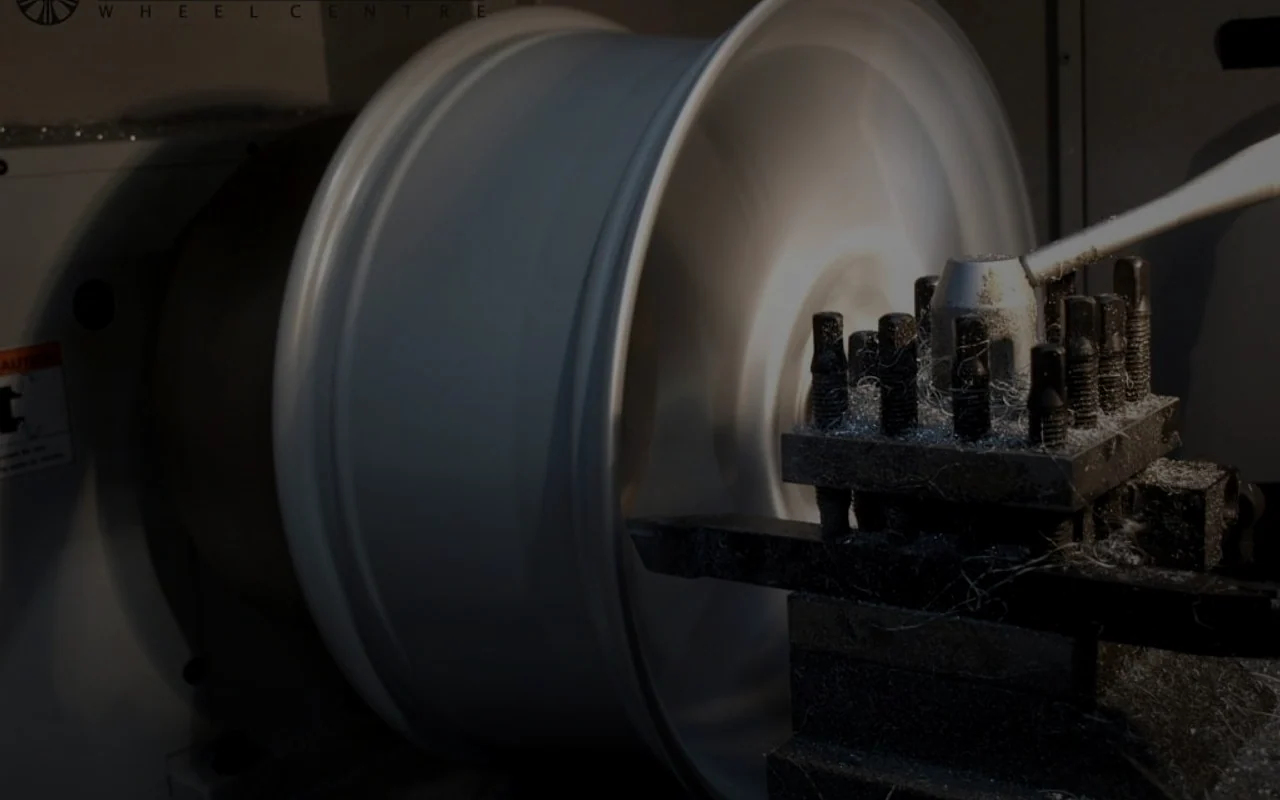
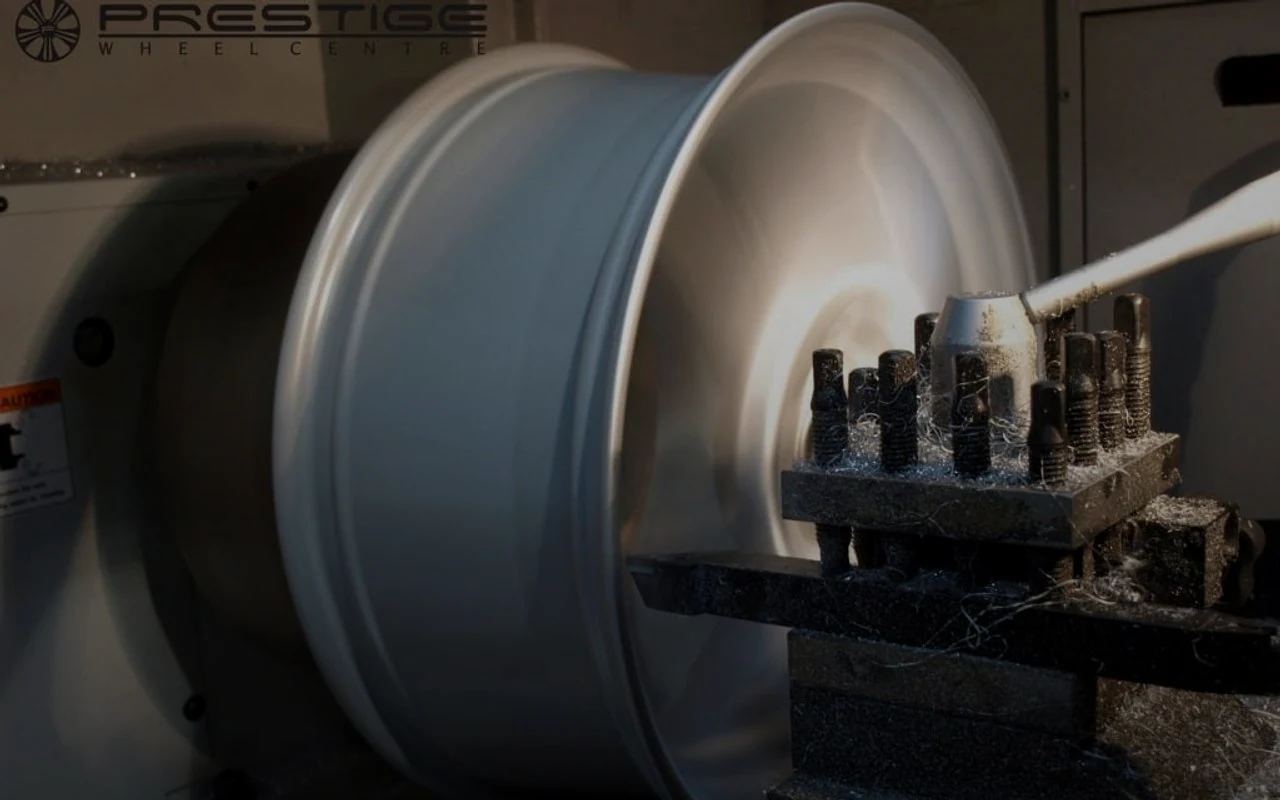
hizmetgüncelleme

diff --git a/scripts/download-wheel-service-heroes.js b/scripts/download-wheel-service-heroes.js
@@ -10,87 +10,132 @@ const UA =
 const WIDTH = 1280;
 const HEIGHT = 800;
 
-/** Janta yakın çekim, başlığa uygun gerçek onarım süreci görselleri */
 const SERVICES = [
   {
     id: "jant-boyama",
     title: "Jant Boyama",
-    url: "https://commons.wikimedia.org/wiki/Special:FilePath/Rims_painted_(2967657525).jpg",
-    focus: "centre",
-    note: "Jant sprey boya uygulaması (yakın çekim)",
+    url: "https://plus.unsplash.com/premium_photo-1661750334379-2f2b4b1f6ef4?fm=jpg&q=85&w=1920",
+    focus: [0.5, 0.45],
+    note: "Sprey boya kabininde otomotiv parça boyama (Unsplash)",
   },
   {
     id: "jant-kaynagi",
     title: "Jant Kaynağı",
-    url: "https://blogger.googleusercontent.com/img/b/R29vZ2xl/AVvXsEhkehMhoz4edcjV-H_lPAppPhSNVlQHxgdIdTcx8eUMsGmAlaepoDvV8qBQRfxPh3qQJ_SiA_sWDENb0C-ly_KXATdrApqKAq69SxlCFaUnKOzipTPCVMW7M4stPOiCgc93mtgDib-n-K6-/s1600/1471.JPG",
-    focus: "centre",
-    note: "Jant kenarı TIG kaynak onarımı",
+    url: "https://commons.wikimedia.org/wiki/Special:FilePath/TIG_welding.jpg",
+    focus: [0.5, 0.45],
+    note: "TIG kaynak işlemi (Wikimedia Commons)",
   },
   {
     id: "cnc-diamond-cut",
     title: "CNC Diamond Cut",
     url: "https://prestigewheelcentre.co.uk/blog/wp-content/uploads/2013/03/P3091647-1024x730.jpg",
-    focus: "centre",
+    focus: [0.52, 0.46],
     note: "CNC diamond cut tornalama — jant yüzey kesimi",
   },
   {
     id: "jant-duzeltme",
     title: "Jant Düzeltme",
     url: "https://wheelrestore.com/wp-content/uploads/2023/10/wr-install-001.webp",
-    focus: "centre",
-    note: "Jant düzeltme makinesinde onarım",
+    focus: [0.5, 0.48],
+    note: "Jant düzeltme makinesi / atölye uygulaması",
   },
   {
     id: "jant-tornalama",
     title: "Jant Tornalama",
     url: "https://prestigewheelcentre.co.uk/blog/wp-content/uploads/2013/03/P3091643-1024x986.jpg",
-    focus: "centre",
-    note: "CNC tornada jant profil tarama / tornalama",
+    focus: [0.55, 0.42],
+    note: "CNC tornada jant profil işleme",
   },
   {
     id: "jant-kumlama",
     title: "Jant Kumlama",
-    url: "https://wheelrestore.com/wp-content/uploads/2024/09/wheel-blasting-machine-filtration.webp",
-    focus: "centre",
-    note: "Kumlama kabininde jant hazırlığı",
+    url: "https://upload.wikimedia.org/wikipedia/commons/f/f2/Cabine_de_sablage_arena.JPG",
+    focus: [0.5, 0.5],
+    note: "Kumlama kabini — boya öncesi yüzey hazırlığı (Wikimedia Commons)",
   },
   {
     id: "jant-polisaj",
     title: "Jant Polisaj",
-    url: "https://prestigewheelcentre.co.uk/blog/wp-content/uploads/2013/03/P3091646-1024x807.jpg",
-    focus: "centre",
-    note: "Parlatılmış jant yüzeyi yakın çekim",
+    url: "https://upload.wikimedia.org/wikipedia/commons/f/f1/Jaguar_XF_Nevis_%2820%22%29_alloy_wheel.jpg",
+    focus: [0.42, 0.52],
+    note: "Parlatılmış premium jant yakın çekim (Wikimedia Commons)",
   },
   {
     id: "diger-hizmetler",
     title: "Diğer Hizmetler",
-    url: "https://thewheelmedics.co.uk/wp-content/uploads/2023/02/image12.jpg",
-    focus: "centre",
-    note: "Genel jant restorasyon ve onarım",
+    url: "https://images.pexels.com/photos/32208774/pexels-photo-32208774.jpeg?auto=compress&cs=tinysrgb&w=1920",
+    focus: [0.5, 0.42],
+    note: "Atölyede lastik/jant onarımı (Pexels)",
   },
 ];
+
+function sleep(ms) {
+  return new Promise(function (resolve) {
+    setTimeout(resolve, ms);
+  });
+}
 
 async function fetchBuf(url) {
   const headers = {
     "User-Agent": UA,
     Accept: "image/avif,image/webp,image/apng,image/*,*/*;q=0.8",
   };
-  if (url.includes("wheelsclinic.co.uk")) {
-    headers.Referer = "https://www.wheelsclinic.co.uk/";
+  if (url.includes("prestigewheelcentre.co.uk") || url.includes("wheelrestore.com")) {
+    headers.Referer = "https://www.google.com/";
   }
-  const res = await fetch(url, { headers, redirect: "follow" });
-  if (!res.ok) throw new Error("HTTP " + res.status);
-  const buf = Buffer.from(await res.arrayBuffer());
-  if (buf.length < 8000) throw new Error("too small (" + buf.length + " bytes)");
-  return buf;
+
+  let lastError = null;
+  for (let attempt = 0; attempt < 3; attempt += 1) {
+    try {
+      const res = await fetch(url, { headers, redirect: "follow" });
+      if (res.status === 429) {
+        await sleep(2500 * (attempt + 1));
+        throw new Error("HTTP 429");
+      }
+      if (!res.ok) throw new Error("HTTP " + res.status);
+      const buf = Buffer.from(await res.arrayBuffer());
+      if (buf.length < 8000) throw new Error("too small (" + buf.length + " bytes)");
+      return buf;
+    } catch (err) {
+      lastError = err;
+      await sleep(1500 * (attempt + 1));
+    }
+  }
+  throw lastError;
+}
+
+function coverCropRect(w, h, focus) {
+  const targetAspect = WIDTH / HEIGHT;
+  const sourceAspect = w / h;
+  let cropW;
+  let cropH;
+
+  if (sourceAspect > targetAspect) {
+    cropH = h;
+    cropW = Math.round(h * targetAspect);
+  } else {
+    cropW = w;
+    cropH = Math.round(w / targetAspect);
+  }
+
+  const fx = focus && focus[0] != null ? focus[0] : 0.5;
+  const fy = focus && focus[1] != null ? focus[1] : 0.5;
+  const left = Math.round(Math.max(0, Math.min(w - cropW, fx * w - cropW / 2)));
+  const top = Math.round(Math.max(0, Math.min(h - cropH, fy * h - cropH / 2)));
+
+  return { left, top, width: cropW, height: cropH };
 }
 
 async function normalizeHero(buf, focus) {
-  const graded = await sharp(buf)
-    .rotate()
-    .resize(WIDTH, HEIGHT, { fit: "cover", position: focus || "centre" })
-    .modulate({ brightness: 0.84, saturation: 0.72 })
-    .linear(1.06, -14)
+  const rotated = sharp(buf).rotate();
+  const meta = await rotated.metadata();
+  const crop = coverCropRect(meta.width, meta.height, focus);
+
+  const graded = await rotated
+    .extract(crop)
+    .resize(WIDTH, HEIGHT)
+    .modulate({ brightness: 0.9, saturation: 0.88 })
+    .linear(1.04, -8)
     .toBuffer();
 
   const overlay = Buffer.from(
@@ -98,14 +143,13 @@ async function normalizeHero(buf, focus) {
       <defs>
         <radialGradient id="v" cx="50%" cy="45%" r="75%">
           <stop offset="0%" stop-color="#000" stop-opacity="0"/>
-          <stop offset="100%" stop-color="#09090f" stop-opacity="0.35"/>
+          <stop offset="100%" stop-color="#09090f" stop-opacity="0.22"/>
         </radialGradient>
         <linearGradient id="b" x1="0" y1="0" x2="0" y2="1">
-          <stop offset="0%" stop-color="#14141c" stop-opacity="0.06"/>
-          <stop offset="100%" stop-color="#090909" stop-opacity="0.48"/>
+          <stop offset="0%" stop-color="#14141c" stop-opacity="0"/>
+          <stop offset="100%" stop-color="#090909" stop-opacity="0.38"/>
         </linearGradient>
       </defs>
-      <rect width="100%" height="100%" fill="#14141c" fill-opacity="0.1"/>
       <rect width="100%" height="100%" fill="url(#v)"/>
       <rect width="100%" height="100%" fill="url(#b)"/>
     </svg>`
@@ -113,7 +157,7 @@ async function normalizeHero(buf, focus) {
 
   return sharp(graded)
     .composite([{ input: overlay, blend: "multiply" }])
-    .webp({ quality: 86, effort: 5 })
+    .webp({ quality: 88, effort: 5 })
     .toBuffer();
 }
 
@@ -141,6 +185,8 @@ async function main() {
       report.push({ id: service.id, status: "error", error: err.message, source: service.url });
       console.error("ERR " + service.id + ": " + err.message);
     }
+
+    await sleep(1200);
   }
 
   fs.writeFileSync(
